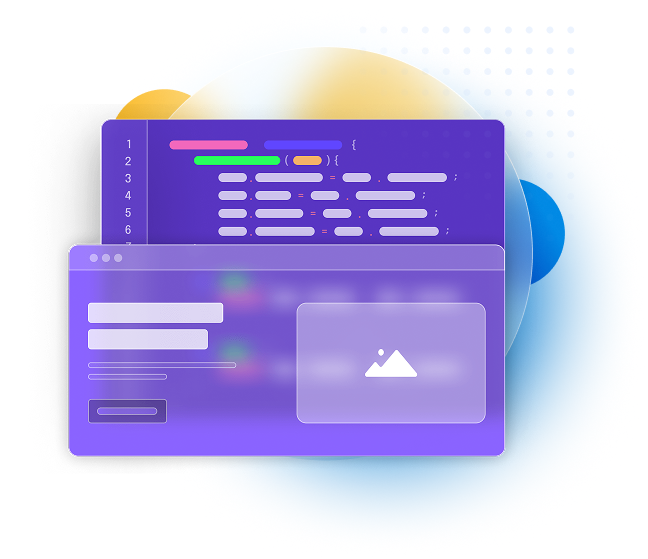
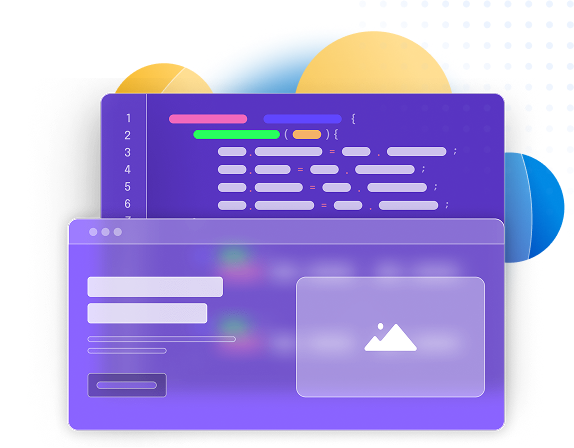
UI

diff --git a/src/app/layout/header/header.component.html b/src/app/layout/header/header.component.html
@@ -6,30 +6,17 @@
      [class.with-sidenav-collapsed]="authService.isAuthenticated() && (sidenavService.isVisible$ | async) && (sidenavService.config$ | async)?.collapsed"
      [class.navbar-dark]="currentTheme === 'dark'"
      [attr.data-header-type]="headerType"
-     [attr.data-bs-theme]="currentTheme">
-  
+     [attr.data-bs-theme]="currentTheme" id="HeaderStyle">
   <div class="container-fluid px-lg-5 px-md-4 px-3">
-    
     <!-- Sidenav Toggle Button (for authenticated users) -->
-    <button class="btn btn-link sidenav-toggle-btn mobile-menu-toggle d-lg-none me-2" 
-            type="button"
-            (click)="toggleSidenav()"
-            *ngIf="authService.isAuthenticated()"
-            aria-label="Toggle sidebar navigation">
+    <button class="btn btn-link sidenav-toggle-btn mobile-menu-toggle d-lg-none me-2" type="button" (click)="toggleSidenav()" *ngIf="authService.isAuthenticated()" aria-label="Toggle sidebar navigation">
       <i class="bi-list" style="font-size: 1.5rem;"></i>
     </button>
 
-
-
     <!-- Brand/Logo - Show only when sidenav is collapsed or not visible -->
-    <a class="navbar-brand" 
-       (click)="onLogoClick()" 
-       style="cursor: pointer;"
+    <a class="navbar-brand" (click)="onLogoClick()" style="cursor: pointer;"
        *ngIf="!(sidenavService.isVisible$ | async) || (sidenavService.config$ | async)?.collapsed">
-      <img [src]="(logo$ | async)?.src" 
-           [alt]="(logo$ | async)?.alt" 
-           class="logo-img"
-           loading="lazy">
+      <img [src]="(logo$ | async)?.src" [alt]="(logo$ | async)?.alt" class="logo-img" loading="lazy">
     </a>
 
     <!-- Mobile Menu Toggle Button -->
@@ -60,7 +47,7 @@
       </ul>
 
       <!-- Action Buttons -->
-      <div class="navbar-nav ms-auto">
+      <div class="navbar-nav m-0">
         
         <!-- Theme & Settings Button (Combined) -->
         <button class="btn btn-link theme-settings-btn me-2" 
@@ -129,7 +116,6 @@
             {{ action.label }}
             <i class="bi bi-arrow-right ms-2"></i>
           </button>
-          
         </ng-container>
       </div>
     </div>

diff --git a/src/styles.scss b/src/styles.scss
@@ -848,13 +848,13 @@ body {
 // Support for existing custom classes
 .CustomContainer {
   @extend .container-fluid;
-  max-width: 1400px !important;
+   max-width: 100% !important;
 }
 
 .pad100 {
   @include media-breakpoint-up(lg) {
-    padding-left: 100px;
-    padding-right: 100px;
+  padding-left: 100px !important;
+    padding-right: 100px !important;
   }
   
   @include media-breakpoint-down(md) {
@@ -902,8 +902,9 @@ body {
   .container,
   .container-fluid,
   .container-custom {
-    width: auto !important;
-    max-width: none !important;
+    max-width: 1500px !important;
+    overflow-x: hidden !important;
+    box-sizing: border-box !important;
   }
 }
 
@@ -1517,7 +1518,7 @@ html, body {
 .container-xl,
 .container-xxl {
   width: 100%;
-  max-width: 100%;
+  max-width: 1500px;
   padding-left: clamp(0.5rem, 2vw, 1.5rem);
   padding-right: clamp(0.5rem, 2vw, 1.5rem);
   margin-left: auto;
@@ -1536,7 +1537,7 @@ html, body {
 }
 
 // Enhanced responsive breakpoints for zoom
-@media (max-width: 1600px) {
+@media (max-width: 1500px) {
   .container-fluid {
     padding-left: 1rem;
     padding-right: 1rem;

diff --git a/src/styles.css b/src/styles.css
@@ -129,7 +129,7 @@ a:hover {
   /* Potential for larger font sizes or wider containers if design calls for it */
   /* html { font-size: 17px; } */
   .container {
-    max-width: 1600px; /* Example: Wider container for large screens */
+    max-width: 1500px; /* Optimized max-width for large screens */
   }
 }
 
@@ -137,7 +137,7 @@ a:hover {
 @media (min-width: 1920px) {
   /* html { font-size: 18px; } */
   .container {
-    max-width: 1600px; /* Example: Even wider container */
+    max-width: 1500px; /* Optimized max-width for extra large screens */
   }
 }
 
@@ -426,8 +426,8 @@ body.dark-theme .mat-mdc-menu-item {
 body.dark-theme .mat-mdc-menu-item:hover:not([disabled]) {
   background-color: rgba(255, 255, 255, 0.08) !important;
 }
-.pad100{padding-left:100px;padding-right:100px;}
-.CustomContainer{width:1600px !important;}
+.pad100{padding-left:100px !important;padding-right:100px !important;}
+.CustomContainer{width:100% !important;}
 .mar100{margin-left:100px;margin-right:100px;}
 
 /* :root {

diff --git a/src/app/features/landing/landing-page/landing-page.component.scss b/src/app/features/landing/landing-page/landing-page.component.scss
@@ -46,11 +46,11 @@
   
   .hero-white-circle {
     position: absolute;
-    width: 500px;
-    height: 500px;
+    width: 450px;
+    height: 450px;
     background: rgba(255, 255, 255, 0.8);
-    top: 32px;
-    left: 170px;
+    top: 1px;
+    left: 0px;
     background: linear-gradient(193deg, rgba(255, 255, 255, 0.29) 61.18%, rgba(255, 255, 255, 0.00) 95.07%);
     box-shadow: 0 0 45.376px 0 rgba(0, 163, 255, 0.05);
     backdrop-filter: blur(23.15101432800293px);
@@ -69,9 +69,9 @@
   
   .hero-yellow-circle {
     bottom: 0%;
-    left: 0%;
-    max-width: 400px;
-    height: 400px;
+    left: -2%;
+    max-width: 100%;
+    height: 271px;
     object-fit: contain;
     
     @media (max-width: 1199.98px) {
@@ -766,3 +766,7 @@ img.SectionBgImage {
     right: 0;
     transform: translate(0%, 61%);
 }
+.input-group {
+    border-radius: 10px;
+}
+.heroZidex{z-index: 1;position: relative;}

diff --git a/src/app/features/landing/landing-page/landing-page.component.css b/src/app/features/landing/landing-page/landing-page.component.css
@@ -875,7 +875,7 @@ width: 100%;
   box-shadow: 0 8px 40px 0 rgba(16,30,54,0.10);
   background: #fff;
 }
-@media (max-width: 1600px) {
+@media (max-width: 1500px) {
   /* .section-inner {
     max-width: 1000px;
     padding-left: 24px;
@@ -934,7 +934,7 @@ width: 100%;
   flex-direction: row;
   align-items: center;
   justify-content: space-between;
-  max-width: 1600px;
+  max-width: 1500px;
   margin: 0 auto;
   padding: 69px 40px 69px 40px;
 }
@@ -1077,7 +1077,7 @@ width: 100%;
   width: 100%;
 }
 .pricing-section-inner {
-  max-width: 1600px;
+  max-width: 1500px;
   margin: 0 auto;
     text-align: center;
     padding: 69px 0px;
@@ -1379,7 +1379,7 @@ width: 100%;
 }
 
 .core-capabilities-container {
-  max-width: 1600px;
+  max-width: 1500px;
   margin: 0 auto;
   padding-left: 0px;
   padding-right: 0px;

diff --git a/src/app/features/brands/all-categories/all-categories.component.css b/src/app/features/brands/all-categories/all-categories.component.css
@@ -13,7 +13,7 @@ body, .categories-main-layout, .categories-bg, .categories-content, .categories-
 
 .categories-content {
   width: 100%;
-  max-width: 1600px;
+  max-width: 1500px;
   margin: 0 auto;
   text-align: center;
   display: flex;
@@ -334,7 +334,7 @@ body, .categories-main-layout, .categories-bg, .categories-content, .categories-
   flex-direction: column;
   gap: 0;
   width: 100%;
-  max-width: 1600px;
+  max-width: 1500px;
   margin-top: 32px;
   margin-bottom: 40px;
   align-items: stretch;

diff --git a/src/app/features/landing/landing-page/landing-page.component.html b/src/app/features/landing/landing-page/landing-page.component.html
@@ -4,8 +4,8 @@
   <div class="hero-bg-elements">
     <img src="assets/landing/SectionBg1.png" alt="Decorative Circle" class="hero-yellow-circle position-absolute d-none d-lg-block" />
   </div>
-  <div class="container px-lg-5 px-md-4 px-3">
-    <div class="row align-items-center py-4">
+  <div class="container pad100">
+    <div class="row align-items-center py-4 heroZidex">
       <!-- Left Column: Content -->
       <div class="col-lg-6 col-12 order-2 order-lg-1">
         <div class="hero-content">

diff --git a/src/app/layout/header/header.component.scss b/src/app/layout/header/header.component.scss
@@ -36,7 +36,11 @@
       width: calc(100% - 70px);
     }
   }
-  
+  nav#HeaderStyle {
+    width: 100% !important;
+    max-width: 100% !important;
+}
+
   // Ensure header doesn't overlap with sidenav at any zoom level
   @media screen and (min-resolution: 144dpi) {
     // 150% zoom and above
@@ -58,7 +62,7 @@
   }
   
   .container-fluid {
-    max-width: 1400px;
+    max-width: 100%;
     margin: 0 auto;
     display: flex;
     align-items: center;

diff --git a/src/app/layout/main-layout.component.scss b/src/app/layout/main-layout.component.scss
@@ -2,7 +2,7 @@
 
 // Main layout styles with proper space segregation
 .main-layout {
-  position: relative;
+  position: absolute;
   min-height: 100vh;
   background-color: var(--bs-body-bg);
   color: var(--bs-body-color);

diff --git a/src/app/features/brands/company-data/company-data.component.css b/src/app/features/brands/company-data/company-data.component.css
@@ -36,7 +36,7 @@ body, html, app-root {
 }
 .brand-analyzer-content {
   width: 100%;
-  max-width: 1600px;
+  max-width: 1500px;
   padding: 64px 48px 72px 48px;
   display: flex;
   flex-direction: column;

diff --git a/src/app/features/blog/blog.component.css b/src/app/features/blog/blog.component.css
@@ -10,7 +10,7 @@
 }
 
 .blog-main-container {
- max-width: 1600px;
+ max-width: 1500px;
     margin: 0 auto;
     display: flex;
     gap: 30px;

diff --git a/src/app/features/brands/all-categories/all-categories.component.scss b/src/app/features/brands/all-categories/all-categories.component.scss
@@ -1174,6 +1174,7 @@
   .container {
     position: relative;
     z-index: 1;
+    max-width: 1500px;
   }
   
   h1 {
